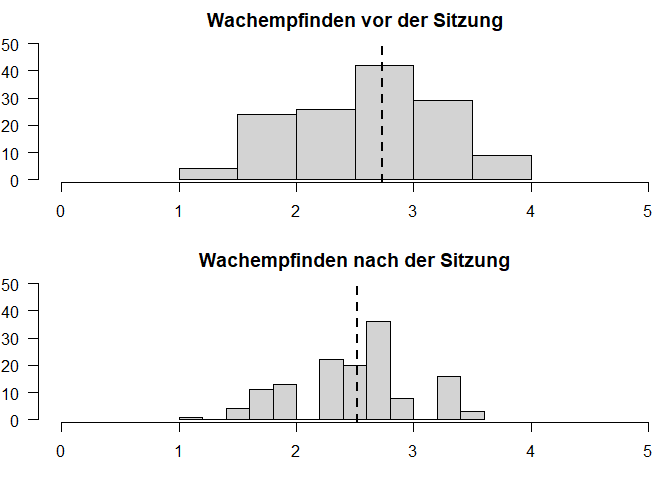
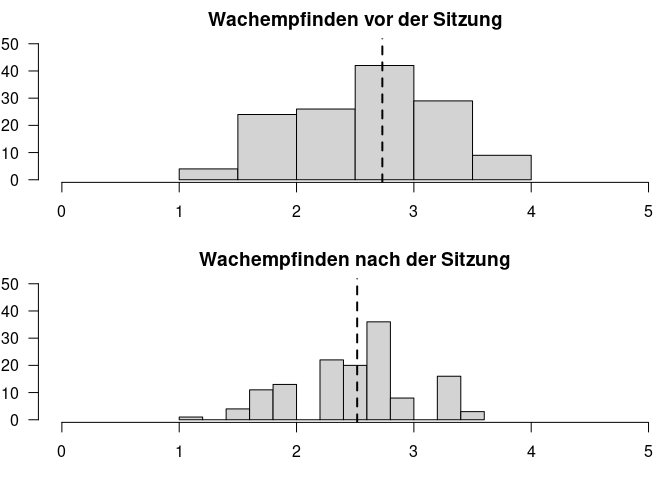
Fix error in dependent sample solutions (Stats I).

diff --git a/content/lehre/statistik-i/gruppenvergleiche-abhaengig-loesungen.md b/content/lehre/statistik-i/gruppenvergleiche-abhaengig-loesungen.md
@@ -8,7 +8,7 @@ tags: []
 subtitle: ''
 summary: '' 
 authors: [walter, nehler] 
-lastmod: '2024-12-05'
+lastmod: '2025-01-24'
 featured: no
 banner:
   image: "/header/consent_checkbox.jpg"
@@ -88,7 +88,7 @@ Ein Blick in den `fb24`-Datensatz verrät, dass auf dem Skalenwert `wm_post`, de
 Um verfälschte deskriptiv- und inferenzstatistische Ergebnisse zu vermeiden, werden alle Personen aus der weiteren Berechung ausgeschlossen, die einen fehlenden Wert auf `wm_post` (oder `wm_pre`) aufweisen. Damit wir den Datensatz `fb24` aber nicht generell verändern, legen wir estmal einen neuen Datesatz an, der nur die beiden interessierenden Variablen enthält.
 
 
-```r
+``` r
 wach <- fb24[, c("wm_pre", "wm_post")] #Erstellung eines neuen Datensatzes, welcher nur die für uns wichtigen Variablen enthält
 
 wach <- na.omit(wach) #Entfernt alle Beobachtungen, die auf einer der beiden Variable einen fehlenden Wert haben
@@ -112,7 +112,7 @@ Histogramme (weil die Skalenwerte Intervallskalenqualität haben):
 Je ein Histogramm pro Gruppe, untereinander dargestellt, vertikale Linie für den jeweiligen Mittelwert.
 
 
-```r
+``` r
 par(mfrow=c(2,1), mar=c(3,2,2,0)) # Zusammenfügen der zwei Histogramme in eine Plot-Datei und ändern der Ränder (margins) des Plot-Fensters
 
 hist(wach[, "wm_pre"], xlim=c(0,5), ylim=c(1,50), main="Wachempfinden vor der Sitzung", xlab="", ylab="", las=1)
@@ -124,7 +124,7 @@ abline(v=mean(wach[, "wm_post"]), lty=2, lwd=2)
 
 ![](/lehre/statistik-i/gruppenvergleiche-abhaengig-loesungen_files/figure-html/unnamed-chunk-3-1.png)<!-- -->
 
-```r
+``` r
 par(mfrow=c(1,1)) #Zurücksetzen auf default
 ```
 
@@ -132,7 +132,7 @@ par(mfrow=c(1,1)) #Zurücksetzen auf default
 **Deskriptivstatistische Beantwortung der Fragestellung: statistisch**
 
 
-```r
+``` r
 summary(wach[, "wm_pre"])
 ```
 
@@ -141,7 +141,7 @@ summary(wach[, "wm_pre"])
 ##   1.250   2.250   2.750   2.731   3.250   4.000
 ```
 
-```r
+``` r
 summary(wach[, "wm_post"])
 ```
 
@@ -150,31 +150,27 @@ summary(wach[, "wm_post"])
 ##   1.000   2.250   2.500   2.517   2.750   3.500
 ```
 
-```r
+``` r
 # aus dem Paket psych, das wir bereits installiert haben
 library(psych)
 describe(wach[, "wm_pre"])
 ```
 
 ```
-##    vars   n mean   sd median trimmed  mad  min max
-## X1    1 134 2.73 0.61   2.75    2.74 0.74 1.25   4
-##    range  skew kurtosis   se
-## X1  2.75 -0.15    -0.82 0.05
+##    vars   n mean   sd median trimmed  mad  min max range  skew kurtosis   se
+## X1    1 134 2.73 0.61   2.75    2.74 0.74 1.25   4  2.75 -0.15    -0.82 0.05
 ```
 
-```r
+``` r
 describe(wach[, "wm_post"])
 ```
 
 ```
-##    vars   n mean  sd median trimmed  mad min max range
-## X1    1 134 2.52 0.5    2.5    2.53 0.37   1 3.5   2.5
-##     skew kurtosis   se
-## X1 -0.26    -0.33 0.04
+##    vars   n mean  sd median trimmed  mad min max range  skew kurtosis   se
+## X1    1 134 2.52 0.5    2.5    2.53 0.37   1 3.5   2.5 -0.26    -0.33 0.04
 ```
 
-Der Mittelwert vorher ($M$ = 2.73, $SD$ = 0.61) ist deskriptiv niedriger als Mittelwert nachher ($M$ = 2.52, $SD$ = 0.5).
+Der Mittelwert vorher ($M$ = 2.73, $SD$ = 0.61) ist deskriptiv höher als Mittelwert nachher ($M$ = 2.52, $SD$ = 0.5).
 
 Die deskriptivstatistischen Maße unterscheiden sich. 
 
@@ -194,7 +190,7 @@ Die deskriptivstatistischen Maße unterscheiden sich.
 
 **Grafische Voraussetzungsprüfung: Normalverteilung von _d_**
 
-```r
+``` r
 par(mar=c(3,3,3,0)) #ändern der Ränder (margins) des Plot-Fensters
 difference <- wach[, "wm_pre"]-wach[, "wm_post"]
 hist(difference, xlim=c(-4,4), main="Verteilung der Differenzen", xlab="Differenzen", ylab="", las=1,freq=F)
@@ -203,7 +199,7 @@ curve(dnorm(x, mean=mean(difference), sd=sd(difference)), col="blue", lwd=2, add
 
 ![](/lehre/statistik-i/gruppenvergleiche-abhaengig-loesungen_files/figure-html/unnamed-chunk-6-1.png)<!-- -->
 
-```r
+``` r
 par(mfrow=c(1,1)) #Zurücksetzen auf default
 qqnorm(difference,las=1)
 qqline(difference, col="blue")
@@ -211,7 +207,7 @@ qqline(difference, col="blue")
 
 ![](/lehre/statistik-i/gruppenvergleiche-abhaengig-loesungen_files/figure-html/unnamed-chunk-6-2.png)<!-- -->
 
-$\Rightarrow$ Differenzen weisen leichte bis mittlere Abweichungen zur Normalverteilung auf. Symmetrie trotzdem gegeben und auf Grund des zentralen Grenzwertsatzes und der Stichprobengröße $\Rightarrow$ Durchführung des t-Tests für abhängige Stichproben
+$\Rightarrow$ Differenzen weisen leichte Abweichungen zur Normalverteilung auf. Symmetrie trotzdem gegeben und auf Grund des zentralen Grenzwertsatzes und der Stichprobengröße $\Rightarrow$ Durchführung des t-Tests für abhängige Stichproben
 </details>
 
 * Führen Sie die inferenzstatistische Testung durch.
@@ -221,7 +217,7 @@ $\Rightarrow$ Differenzen weisen leichte bis mittlere Abweichungen zur Normalver
 **Durchführung des _t_-Tests für abhängige Stichproben in R**
 
 
-```r
+``` r
 t.test(x = wach[, "wm_pre"], y  = wach[, "wm_post"], # die Werte vorher und nachher
        paired = T,                                   # Stichproben sind abhängig
        alternative = "two.sided",                    # unggerichtete Hypothese -> zweiseitig Testung
@@ -243,7 +239,7 @@ t.test(x = wach[, "wm_pre"], y  = wach[, "wm_post"], # die Werte vorher und nach
 ```
 
 
-```r
+``` r
 # Alternative Schreibweise
 t.test(x = wach$wm_pre, y = wach$wm_post, 
        paired = T,
@@ -254,7 +250,7 @@ t.test(x = wach$wm_pre, y = wach$wm_post,
 
 
 * Zur Erinnerung: $df$ bei $t$-test mit abhängigen Stichproben: $n - 1$ (wobei $n$ die Anzahl der Paare darstellt)
-* _t_(133) = 4.317, $p =$ 0 $\rightarrow$ nicht signifikant, H0 wird beibehalten.
+* _t_(133) = 4.317, $p =$ 3\times 10^{-5} $\rightarrow$ ist signifikant, H0 wird verworfen.
 
 </details>
 
@@ -265,7 +261,7 @@ t.test(x = wach$wm_pre, y = wach$wm_post,
 **Schätzung des standardisierten Populationseffekts**
 
 
-```r
+``` r
 mean_d <- mean(difference) # Mittelwert der Differenzen
 sd.d.est <- sd(difference) # geschätzte Populationsstandardabweichung der Differenzen
 d <- mean_d/sd.d.est
@@ -276,11 +272,9 @@ d
 ## [1] 0.3729393
 ```
 
-$\Rightarrow$ Der standardisierte Populationseffekt beträgt _d2''_ = 0.37 und ist laut Konventionen nach Cohen (1988) klein. 
+$\Rightarrow$ Der standardisierte Populationseffekt beträgt _d2''_ = 0.37 und ist laut Konventionen nach Cohen (1988) ein mittlerer Effekt. 
 
-Zu beachten ist, dass der standardisierte Populationseffekt auf der vorher berechneten Differenzvariable basiert. Aus diesem Grund hat der Effekt ein negatives Vorzeichen.
-
-Zur Berechnung der Differenzvariable wurden von den Prä-Messungen die Post-Messungen abgezogen. Ein negatives Vorzeichen des standardisierten Populationseffektes deutet also, wie auch unsere deskriptivstatistischen Ergebnisse, darauf hin, dass die Teilnahme am Statistikpraktikum einen positiven Effekt auf das Wachempfinden haben könnte. Dies könnte man in einer weiteren Studie inferenzstatistisch überprüfen.
+Zur Berechnung der Differenzvariable wurden von den Prä-Messungen die Post-Messungen abgezogen. Ein positives Vorzeichen des standardisierten Populationseffektes deutet also, wie auch unsere deskriptivstatistischen Ergebnisse, darauf hin, dass die Teilnahme am Statistikpraktikum einen negativen Effekt auf das Wachempfinden haben könnte. Dies könnte man in einer weiteren Studie inferenzstatistisch überprüfen.
 
 </details>
 
@@ -292,7 +286,7 @@ Zur Berechnung der Differenzvariable wurden von den Prä-Messungen die Post-Mess
 
 Es wurde in einer Wiederholungsmessung untersucht, ob sich die Teilnahme am Statistikpraktikum  auf das Wachempfinden auswirkt. Zunächst findet sich deskriptiv folgender Unterschied: Vor der Praktikumssitzung liegt der durchschnittliche Zufriedenheitswert bei 2.73 (_SD_ = 0.61), während er nach der Praktikumssitzung bei 2.52 (_SD_ = 0.5) liegt. 
 
-Zur Beantwortung der Fragestellung wurde ein ungerichteter $t$-Test für abhängige Stichproben durchgeführt. Der Gruppenunterschied ist nicht signifikant ($t$(133) = 4.317, $p =$ 0), somit wird die Nullhypothese beibehalten. Wir gehen davon aus, dass sich die Teilnahme am Statistikpraktikum nicht auf das Wachempfinden auswirkt.
+Zur Beantwortung der Fragestellung wurde ein ungerichteter $t$-Test für abhängige Stichproben durchgeführt. Der Gruppenunterschied ist signifikant ($t$(133) = 4.317, $p =$ 0), somit wird die Nullhypothese verworfen und wir gehen davon aus, dass sich die Teilnahme am Statistikpraktikum die Wachheit verändert.
 
 Der standardisierte Populationseffekt von _d''_ = 0.37 ist laut Konventionen nach Cohen (1988) klein.
 
